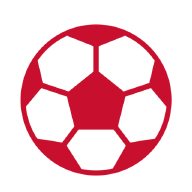
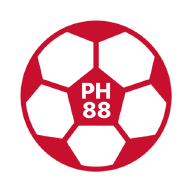
Build web

Changed region(s): [[0.0938, 0.3438, 0.9062, 0.9375], [0.0938, 0.0938, 0.9062, 0.5]]

diff --git a/flutter_service_worker.js b/flutter_service_worker.js
@@ -8,11 +8,11 @@ const RESOURCES = {
 "/": "f108952d4dc8fb7aa0f1dbc6b0beef0d",
 "main.dart.js": "f4d6924e4be7d59da64921523243ca51",
 "flutter.js": "f85e6fb278b0fd20c349186fb46ae36d",
-"favicon.png": "d1b969add38dabf11af8bee8acbfaf39",
-"icons/Icon-192.png": "78eb7405bed2a629b4eec9e1cf54dbdf",
-"icons/Icon-maskable-192.png": "78eb7405bed2a629b4eec9e1cf54dbdf",
-"icons/Icon-maskable-512.png": "da4ad8e24386640fef8e941cdbceb010",
-"icons/Icon-512.png": "da4ad8e24386640fef8e941cdbceb010",
+"favicon.png": "f0b0dbec6684b530dd21e72b84cc71bf",
+"icons/Icon-192.png": "474c565f9c23d87738966e5bd835ea92",
+"icons/Icon-maskable-192.png": "474c565f9c23d87738966e5bd835ea92",
+"icons/Icon-maskable-512.png": "0e79b7d75e7500b0e05c937ffe972f5a",
+"icons/Icon-512.png": "0e79b7d75e7500b0e05c937ffe972f5a",
 "manifest.json": "ab6fffe781b872e0864af30d768d73cc",
 "assets/AssetManifest.json": "d3a23fe531d6ac1d43e6016d480dbe4e",
 "assets/NOTICES": "8f9c995e60b29834f9009e3580160de7",
@@ -26,7 +26,7 @@ const RESOURCES = {
 "assets/assets/icons/user.png": "e8f6bf5da00c752094e50fc4eeabbb9e",
 "assets/assets/icons/1st_medal.png": "683309cd9d019c016d55dee51827bbb8",
 "assets/assets/icons/3th_medal.png": "eaf51bd021774aaffcf1b4d340d534f8",
-"assets/assets/icons/logo.png": "175a1f44b69fe0cc1a1dfd441a549ed4",
+"assets/assets/icons/logo.png": "e884238058ebdded0e47bae7e3449d89",
 "assets/assets/icons/18.svg": "d7bda67cc6c0db21a17f9e424741b094",
 "assets/assets/icons/2nd_medal.png": "0569140d0aabc2dee3e63533a882052d",
 "assets/assets/animations/ranking.json": "487371b5aa34e9f20b1a31d3e27157df",
